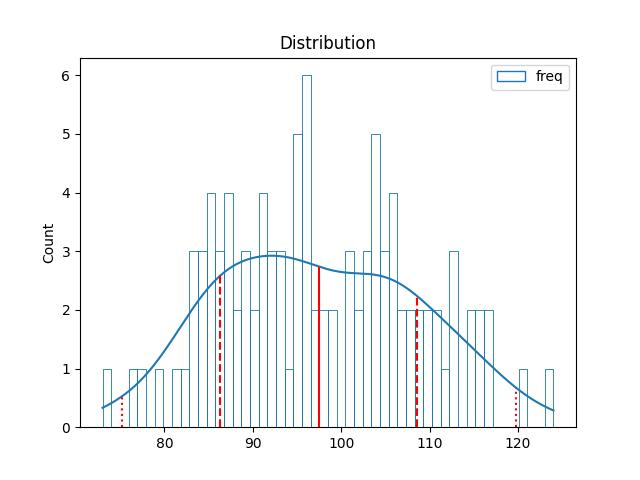
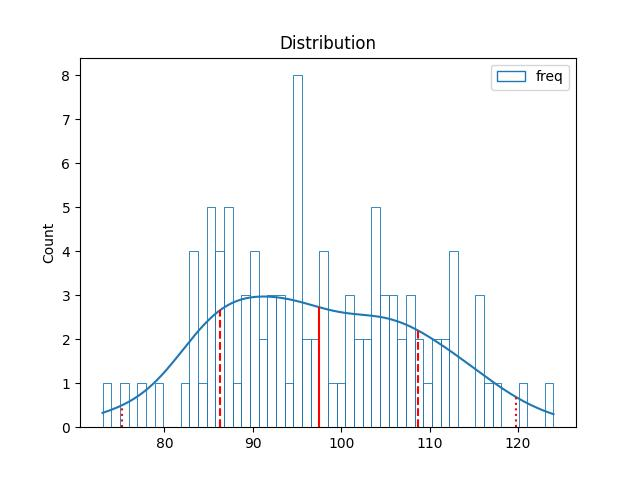
Updated 2023-01-08

diff --git a/README.md b/README.md
@@ -4,13 +4,13 @@ Using GitHub Action to automatically fetch and analyze results of the Vietnam lo
 
 | Lotery      | Loto |
 | :-----------: | :-----------: |
-| <table><tr><td>Date</td><td>07-01-2023</td></tr><tr><td>Special</td><td>39597</td></tr><tr><td>First</td><td>20448</td></tr><tr><td>Second</td><td>98375, 45648</td></tr><tr><td rowspan="2">Third</td><td>55850, 97079, 25197</td></tr><tr><td>01795, 69588, 07835</td></tr><tr><td>Fourth</td><td>1913, 8015, 5241, 3912</td></tr><tr><td rowspan="2">Fifth</td><td>7722, 5706, 0051</td></tr><tr><td>1050, 3377, 4923</td></tr><tr><td>Sixth</td><td>710, 696, 135</td></tr><tr><td>Seventh</td><td>95, 12, 05, 93</td></tr></table> | <table><tr><td>First</td><td>Last</td></tr><tr><td>0</td><td>5, 6</td></tr><tr><td>1</td><td>0, 2, 2, 3, 5</td></tr><tr><td>2</td><td>2, 3</td></tr><tr><td>3</td><td>5, 5</td></tr><tr><td>4</td><td>1, 8, 8</td></tr><tr><td>5</td><td>0, 0, 1</td></tr><tr><td>6</td><td>-</td></tr><tr><td>7</td><td>5, 7, 9</td></tr><tr><td>8</td><td>8</td></tr><tr><td>9</td><td>3, 5, 5, 6, 7, 7</td></tr></table> |
+| <table><tr><td>Date</td><td>08-01-2023</td></tr><tr><td>Special</td><td>20040</td></tr><tr><td>First</td><td>76965</td></tr><tr><td>Second</td><td>00725, 96045</td></tr><tr><td rowspan="2">Third</td><td>24055, 40269, 79722</td></tr><tr><td>76857, 77039, 09960</td></tr><tr><td>Fourth</td><td>0127, 1158, 7977, 9924</td></tr><tr><td rowspan="2">Fifth</td><td>8164, 3677, 6511</td></tr><tr><td>3395, 2012, 1538</td></tr><tr><td>Sixth</td><td>389, 582, 191</td></tr><tr><td>Seventh</td><td>84, 73, 61, 44</td></tr></table> | <table><tr><td>First</td><td>Last</td></tr><tr><td>0</td><td>-</td></tr><tr><td>1</td><td>1, 2</td></tr><tr><td>2</td><td>2, 4, 5, 7</td></tr><tr><td>3</td><td>8, 9</td></tr><tr><td>4</td><td>0, 4, 5</td></tr><tr><td>5</td><td>5, 7, 8</td></tr><tr><td>6</td><td>0, 1, 4, 5, 9</td></tr><tr><td>7</td><td>3, 7, 7</td></tr><tr><td>8</td><td>2, 4, 9</td></tr><tr><td>9</td><td>1, 5</td></tr></table> |
 
 <h2>Analysis of one-year results</h2>
 
 Max: 124. Min: 73.
 
-Mean: 97.47. Standard deviation: 11.14.
+Mean: 97.47. Standard deviation: 11.16.
 
 <h3>Detail</h3>
 
